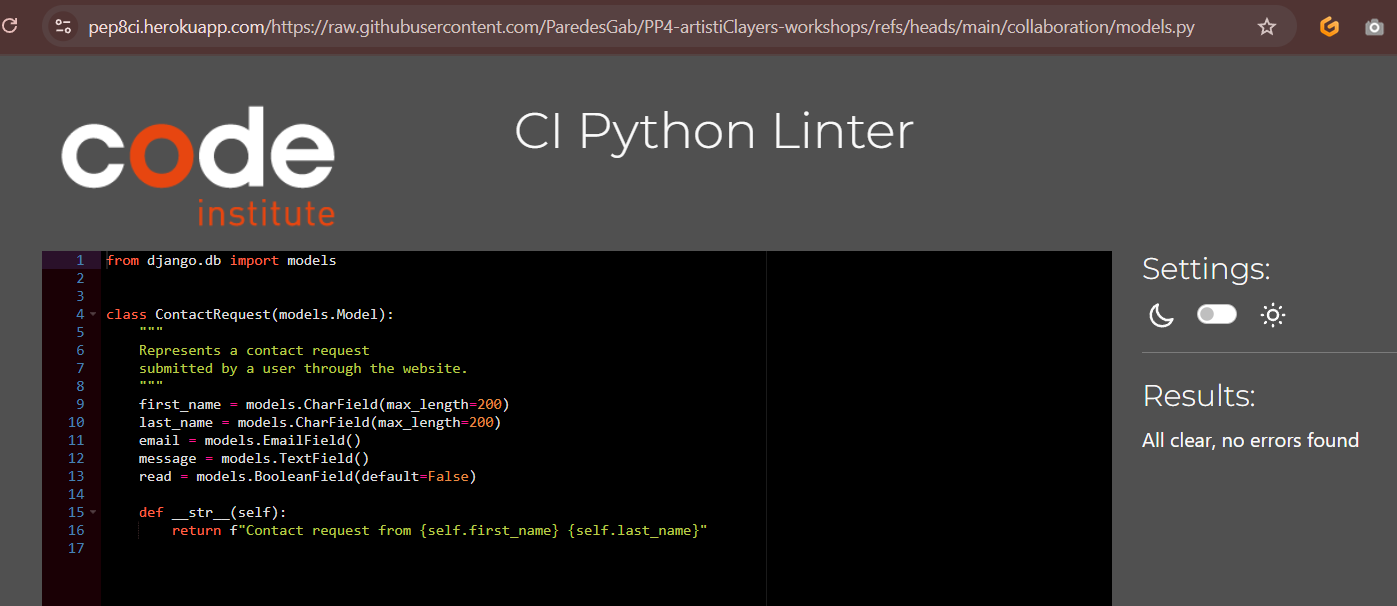
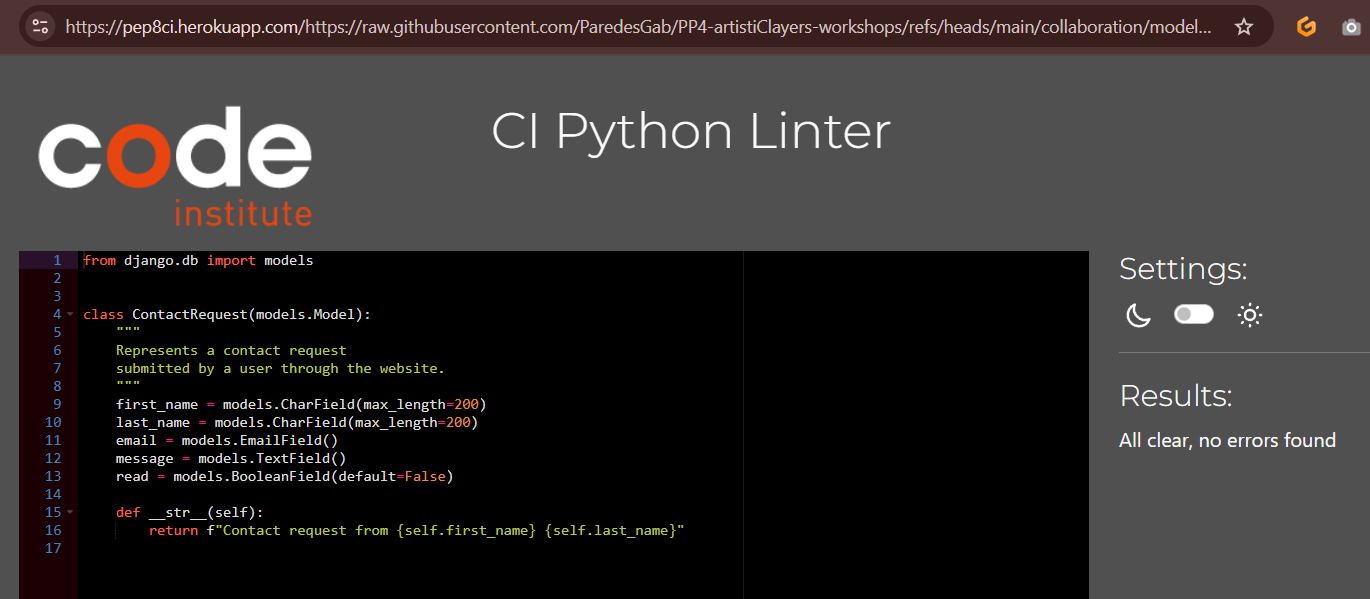
Correct PEP8 collaboration app links

diff --git a/README.md b/README.md
@@ -352,11 +352,11 @@ I have used the recommended [PEP8 CI Python Linter](https://pep8ci.herokuapp.com
 | artisticlayers | [settings.py](https://github.com/ParedesGab/PP4-artistiClayers-workshops/blob/main/artisticlayers/settings.py) | [PEP8 CI Link](https://pep8ci.herokuapp.com/https://raw.githubusercontent.com/ParedesGab/PP4-artistiClayers-workshops/refs/heads/main/artisticlayers/settings.py) | ![screenshot](documentation/validation/py-artisticlayers-settings.png) |
 | artisticlayers | [urls.py](https://github.com/ParedesGab/PP4-artistiClayers-workshops/blob/main/artisticlayers/urls.py) | [PEP8 CI Link](https://pep8ci.herokuapp.com/https://raw.githubusercontent.com/ParedesGab/PP4-artistiClayers-workshops/main/artisticlayers/urls.py) | ![screenshot](documentation/validation/py-artisticlayers-urls.png) |
 | collaboration | [admin.py](https://github.com/ParedesGab/PP4-artistiClayers-workshops/blob/main/collaboration/admin.py) | [PEP8 CI Link](https://pep8ci.herokuapp.com/https://raw.githubusercontent.com/ParedesGab/PP4-artistiClayers-workshops/refs/heads/main/collaboration/admin.py) | ![screenshot](documentation/validation/py-collaboration-admin.png) |
-| collaboration | [models.py](https://github.com/ParedesGab/PP4-artistiClayers-workshops/blob/main/collaboration/models.py) | [PEP8 CI Link](https://pep8ci.herokuapp.com/https://raw.githubusercontent.com/ParedesGab/PP4-artistiClayers-workshops/refs/heads/main/about/models.py) | ![screenshot](documentation/validation/py-collaboration-models.png) |
-| collaboration | [forms.py](https://github.com/ParedesGab/PP4-artistiClayers-workshops/blob/main/collaboration/forms.py) | [PEP8 CI Link](https://pep8ci.herokuapp.com/https://raw.githubusercontent.com/ParedesGab/PP4-artistiClayers-workshops/refs/heads/main/about/models.py) | ![screenshot](documentation/validation/py-collaboration-forms.png) |
+| collaboration | [models.py](https://github.com/ParedesGab/PP4-artistiClayers-workshops/blob/main/collaboration/models.py) | [PEP8 CI Link](https://pep8ci.herokuapp.com/https://raw.githubusercontent.com/ParedesGab/PP4-artistiClayers-workshops/refs/heads/main/collaboration/models.py) | ![screenshot](documentation/validation/py-collaboration-models.png) |
+| collaboration | [forms.py](https://github.com/ParedesGab/PP4-artistiClayers-workshops/blob/main/collaboration/forms.py) | [PEP8 CI Link](https://pep8ci.herokuapp.com/https://raw.githubusercontent.com/ParedesGab/PP4-artistiClayers-workshops/refs/heads/main/collaboration/forms.py) | ![screenshot](documentation/validation/py-collaboration-forms.png) |
 | collaboration | [tests.py](https://github.com/ParedesGab/PP4-artistiClayers-workshops/blob/main/collaboration/tests.py) | [PEP8 CI Link](https://pep8ci.herokuapp.com/https://raw.githubusercontent.com/ParedesGab/PP4-artistiClayers-workshops/main/about/tests.py) | ![screenshot](documentation/validation/py-collaboration-tests.png) |
-| collaboration | [urls.py](https://github.com/ParedesGab/PP4-artistiClayers-workshops/blob/main/collaboration/urls.py) | [PEP8 CI Link](https://pep8ci.herokuapp.com/https://raw.githubusercontent.com/ParedesGab/PP4-artistiClayers-workshops/refs/heads/main/about/urls.py) | ![screenshot](documentation/validation/py-collaboration-urls.png) |
-| collaboration | [views.py](https://github.com/ParedesGab/PP4-artistiClayers-workshops/blob/main/collaboration/views.py) | [PEP8 CI Link](https://pep8ci.herokuapp.com/https://raw.githubusercontent.com/ParedesGab/PP4-artistiClayers-workshops/refs/heads/main/about/views.py) | ![screenshot](documentation/validation/py-collaboration-views.png) |
+| collaboration | [urls.py](https://github.com/ParedesGab/PP4-artistiClayers-workshops/blob/main/collaboration/urls.py) | [PEP8 CI Link](https://pep8ci.herokuapp.com/https://raw.githubusercontent.com/ParedesGab/PP4-artistiClayers-workshops/refs/heads/main/collaboration/urls.py) | ![screenshot](documentation/validation/py-collaboration-urls.png) |
+| collaboration | [views.py](https://github.com/ParedesGab/PP4-artistiClayers-workshops/blob/main/collaboration/views.py) | [PEP8 CI Link](https://pep8ci.herokuapp.com/https://raw.githubusercontent.com/ParedesGab/PP4-artistiClayers-workshops/refs/heads/main/collaboration/views.py) | ![screenshot](documentation/validation/py-collaboration-views.png) |
 | home | [admin.py](https://github.com/ParedesGab/PP4-artistiClayers-workshops/blob/main/home/admin.py) | N/A | N/A |
 | home | [models.py](https://github.com/ParedesGab/PP4-artistiClayers-workshops/blob/main/home/models.py) | N/A | N/A |
 | home | [tests.py](https://github.com/ParedesGab/PP4-artistiClayers-workshops/blob/main/home/tests.py) | [PEP8 CI Link](https://pep8ci.herokuapp.com/https://raw.githubusercontent.com/ParedesGab/PP4-artistiClayers-workshops/main/home/tests.py) | ![screenshot](documentation/validation/py-home-tests.png) |
